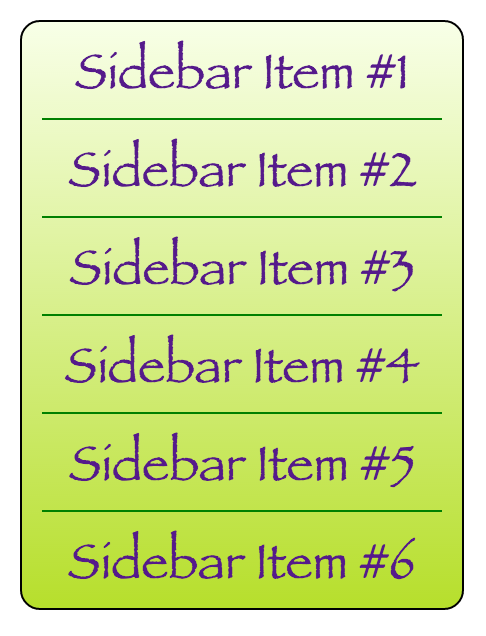
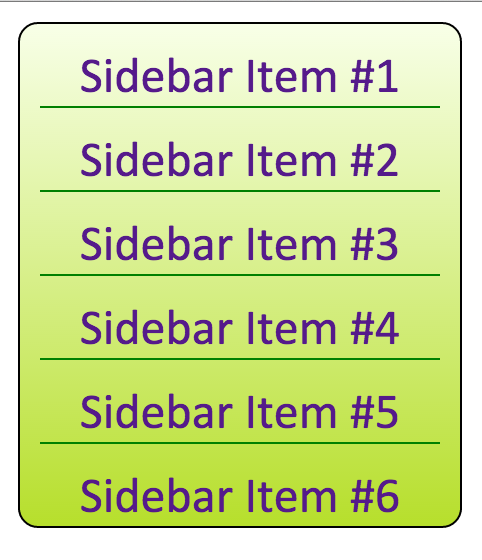
new pictures and CSS added

Changed region(s): [[0.0, 0.0, 1.0, 0.9714]]

diff --git a/Task 1/css/styles-1.css b/Task 1/css/styles-1.css
@@ -1,0 +1,183 @@
+html, body, ul, li, div {
+    padding: 0;
+    margin: 0;
+}
+a {
+    text-decoration: none;
+}
+ul {
+    list-style: none;
+}
+.sidebar ul {
+    display: none;
+}
+.sidebar {
+    margin-left: 10px;
+    margin-top: 10px;
+    border: 1px solid black;
+    border-radius: 10px;
+    width: 200px;
+    text-align: center;
+    padding-left: 10px;
+    padding-right: 10px;
+    background: #f8ffe8;
+    /* Old browsers */
+    
+    background: -moz-linear-gradient(top, #f8ffe8 0%, #e3f5ab 33%, #b7df2d 100%);
+    /* FF3.6+ */
+    
+    background: -webkit-gradient(linear, left top, left bottom, color-stop(0%, #f8ffe8), color-stop(33%, #e3f5ab), color-stop(100%, #b7df2d));
+    /* Chrome,Safari4+ */
+    
+    background: -webkit-linear-gradient(top, #f8ffe8 0%, #e3f5ab 33%, #b7df2d 100%);
+    /* Chrome10+,Safari5.1+ */
+    
+    background: -o-linear-gradient(top, #f8ffe8 0%, #e3f5ab 33%, #b7df2d 100%);
+    /* Opera 11.10+ */
+    
+    background: -ms-linear-gradient(top, #f8ffe8 0%, #e3f5ab 33%, #b7df2d 100%);
+    /* IE10+ */
+    
+    background: linear-gradient(to bottom, #f8ffe8 0%, #e3f5ab 33%, #b7df2d 100%);
+    /* W3C */
+    
+    filter: progid: DXImageTransform.Microsoft.gradient( startColorstr='#f8ffe8', endColorstr='#b7df2d', GradientType=0);
+    /* IE6-9 */
+}
+.sidebar li {
+    padding-top: 10px;
+    font-size: 25px;
+    border-top: 1px solid green;
+    font-family: Calibri;
+}
+.sidebar li:hover {
+    border: 1px dashed red;
+    border-top-right-radius: 10px;
+    border-top-left-radius: 10px;
+    border-bottom: none;
+}
+.sidebar li:first-child {
+    border-top: none;
+}
+.sidebar li:hover ul {
+    display: inline-block;
+    position: absolute;
+    border: 1px solid black;
+    margin-left: 15px;
+    margin-top: -10px;
+    border-radius: 10px;
+    padding-left: 10px;
+    padding-right: 10px;
+    background: #fceabb;
+    /* Old browsers */
+    
+    background: -moz-linear-gradient(top, #fceabb 0%, #fccd4d 50%, #f8b500 51%, #fbdf93 100%);
+    /* FF3.6+ */
+    
+    background: -webkit-gradient(linear, left top, left bottom, color-stop(0%, #fceabb), color-stop(50%, #fccd4d), color-stop(51%, #f8b500), color-stop(100%, #fbdf93));
+    /* Chrome,Safari4+ */
+    
+    background: -webkit-linear-gradient(top, #fceabb 0%, #fccd4d 50%, #f8b500 51%, #fbdf93 100%);
+    /* Chrome10+,Safari5.1+ */
+    
+    background: -o-linear-gradient(top, #fceabb 0%, #fccd4d 50%, #f8b500 51%, #fbdf93 100%);
+    /* Opera 11.10+ */
+    
+    background: -ms-linear-gradient(top, #fceabb 0%, #fccd4d 50%, #f8b500 51%, #fbdf93 100%);
+    /* IE10+ */
+    
+    background: linear-gradient(to bottom, #fceabb 0%, #fccd4d 50%, #f8b500 51%, #fbdf93 100%);
+    /* W3C */
+    
+    filter: progid: DXImageTransform.Microsoft.gradient( startColorstr='#fceabb', endColorstr='#fbdf93', GradientType=0);
+    /* IE6-9 */
+}
+.sidebar li:first-child:hover ul li {
+    border-color: blue;
+}
+.sidebar li:first-child:hover ul li ul {
+    display: none;
+}
+.sidebar li:first-child ul li:hover ul {
+    display: inline-block;
+    position: absolute;
+    width: 260px;
+    margin-left: 120px;
+    margin-top: -49px;
+    background: #b7deed;
+    /* Old browsers */
+    
+    background: -moz-linear-gradient(top, #b7deed 0%, #71ceef 50%, #21b4e2 51%, #b7deed 100%);
+    /* FF3.6+ */
+    
+    background: -webkit-gradient(linear, left top, left bottom, color-stop(0%, #b7deed), color-stop(50%, #71ceef), color-stop(51%, #21b4e2), color-stop(100%, #b7deed));
+    /* Chrome,Safari4+ */
+    
+    background: -webkit-linear-gradient(top, #b7deed 0%, #71ceef 50%, #21b4e2 51%, #b7deed 100%);
+    /* Chrome10+,Safari5.1+ */
+    
+    background: -o-linear-gradient(top, #b7deed 0%, #71ceef 50%, #21b4e2 51%, #b7deed 100%);
+    /* Opera 11.10+ */
+    
+    background: -ms-linear-gradient(top, #b7deed 0%, #71ceef 50%, #21b4e2 51%, #b7deed 100%);
+    /* IE10+ */
+    
+    background: linear-gradient(to bottom, #b7deed 0%, #71ceef 50%, #21b4e2 51%, #b7deed 100%);
+    /* W3C */
+    
+    filter: progid: DXImageTransform.Microsoft.gradient( startColorstr='#b7deed', endColorstr='#b7deed', GradientType=0);
+    /* IE6-9 */
+}
+.sidebar li:first-child ul li:hover ul li {
+    border-color: white;
+}
+.sidebar li:last-child ul {
+    background: #febbbb;
+    /* Old browsers */
+    
+    background: -moz-linear-gradient(top, #febbbb 0%, #fe9090 45%, #ff5c5c 100%);
+    /* FF3.6+ */
+    
+    background: -webkit-gradient(linear, left top, left bottom, color-stop(0%, #febbbb), color-stop(45%, #fe9090), color-stop(100%, #ff5c5c));
+    /* Chrome,Safari4+ */
+    
+    background: -webkit-linear-gradient(top, #febbbb 0%, #fe9090 45%, #ff5c5c 100%);
+    /* Chrome10+,Safari5.1+ */
+    
+    background: -o-linear-gradient(top, #febbbb 0%, #fe9090 45%, #ff5c5c 100%);
+    /* Opera 11.10+ */
+    
+    background: -ms-linear-gradient(top, #febbbb 0%, #fe9090 45%, #ff5c5c 100%);
+    /* IE10+ */
+    
+    background: linear-gradient(to bottom, #febbbb 0%, #fe9090 45%, #ff5c5c 100%);
+    /* W3C */
+    
+    filter: progid: DXImageTransform.Microsoft.gradient( startColorstr='#febbbb', endColorstr='#ff5c5c', GradientType=0);
+    /* IE6-9 */
+}
+.sidebar li:last-child ul li {
+    border-color: yellow;
+}
+.sidebar li:last-child ul li a {
+    color: white;
+}
+#search-input {
+    display: inline-block;
+}
+.sidebar li:nth-child(4) div {
+    background-image: url("logo.png");
+    background-repeat: no-repeat;
+    background-position: center;
+    background-color: orange;
+    position: absolute;
+    margin-left: 20px;
+    margin-top: -60px;
+    width: 280px;
+    height: 160px;
+    border-radius: 20px;
+    display: none;
+}
+.sidebar li:nth-child(4):hover div {
+    display: inline-block;
+}
